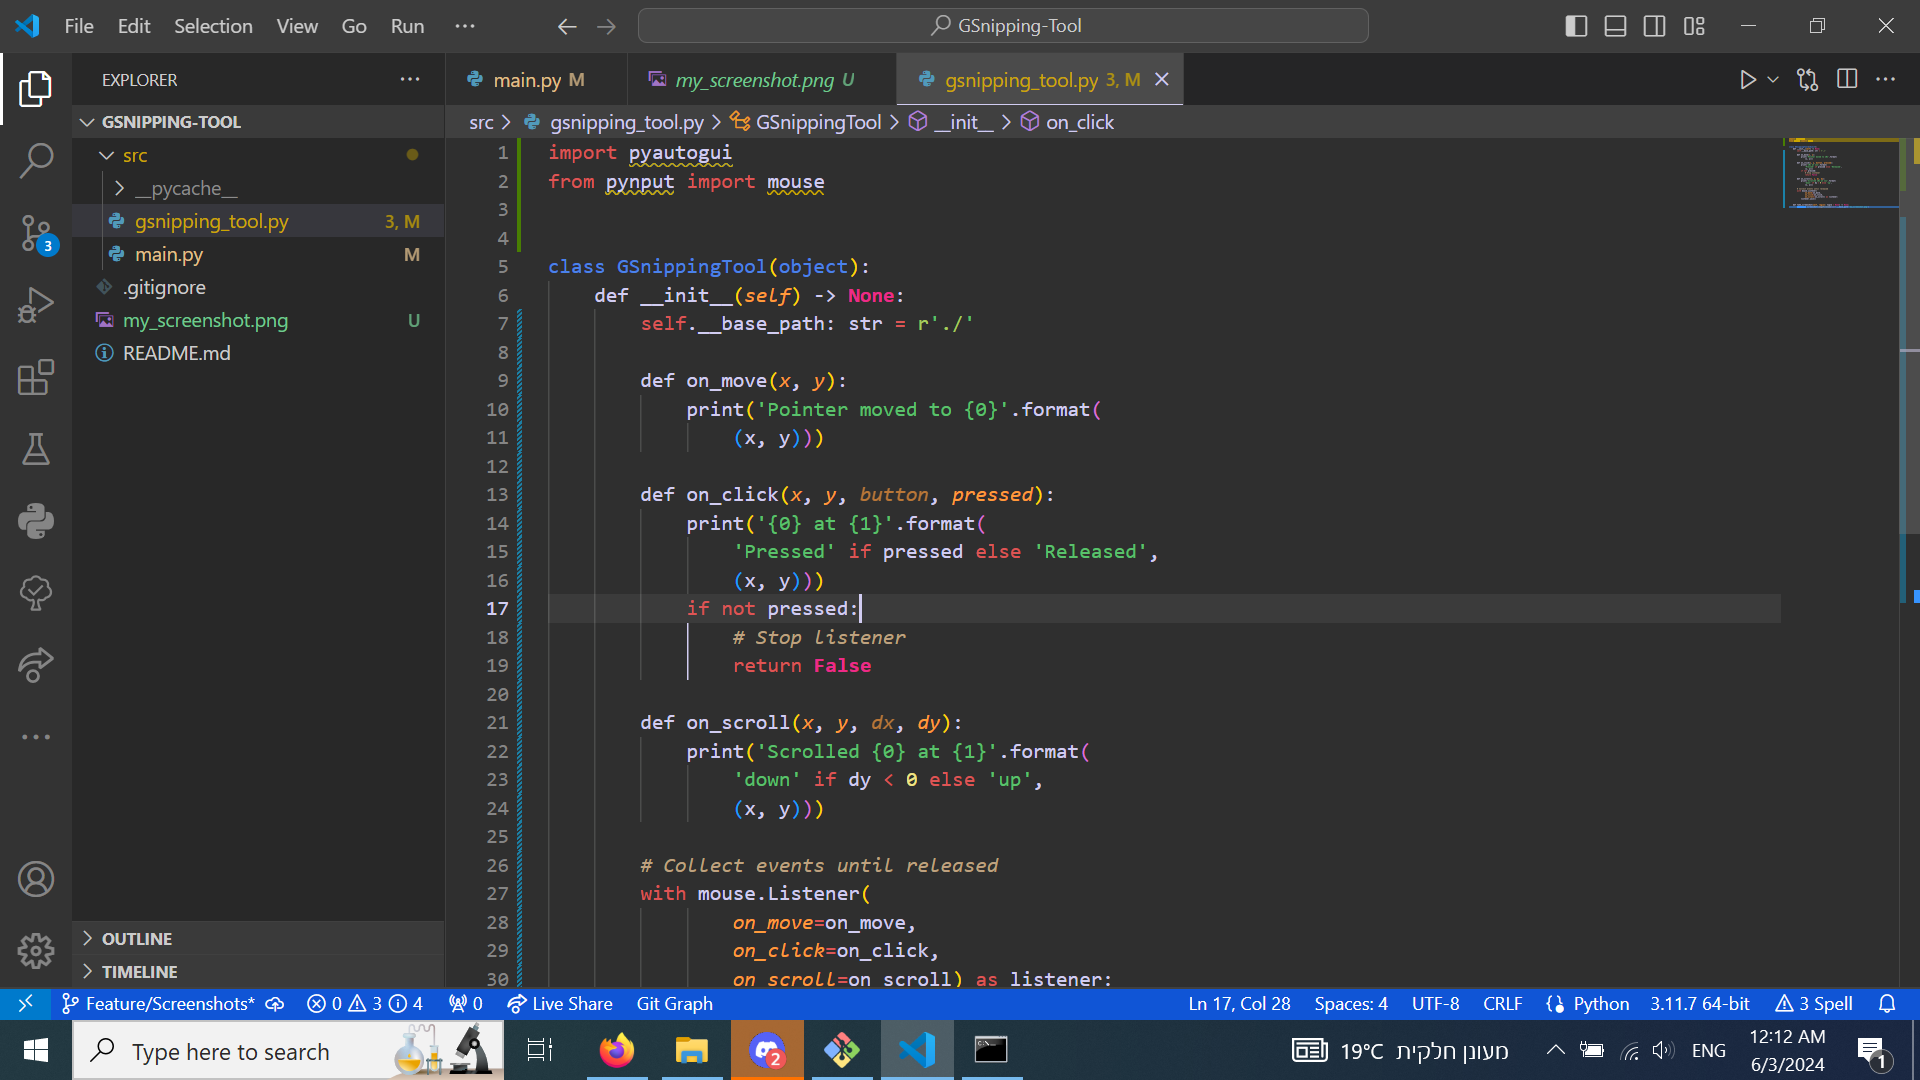
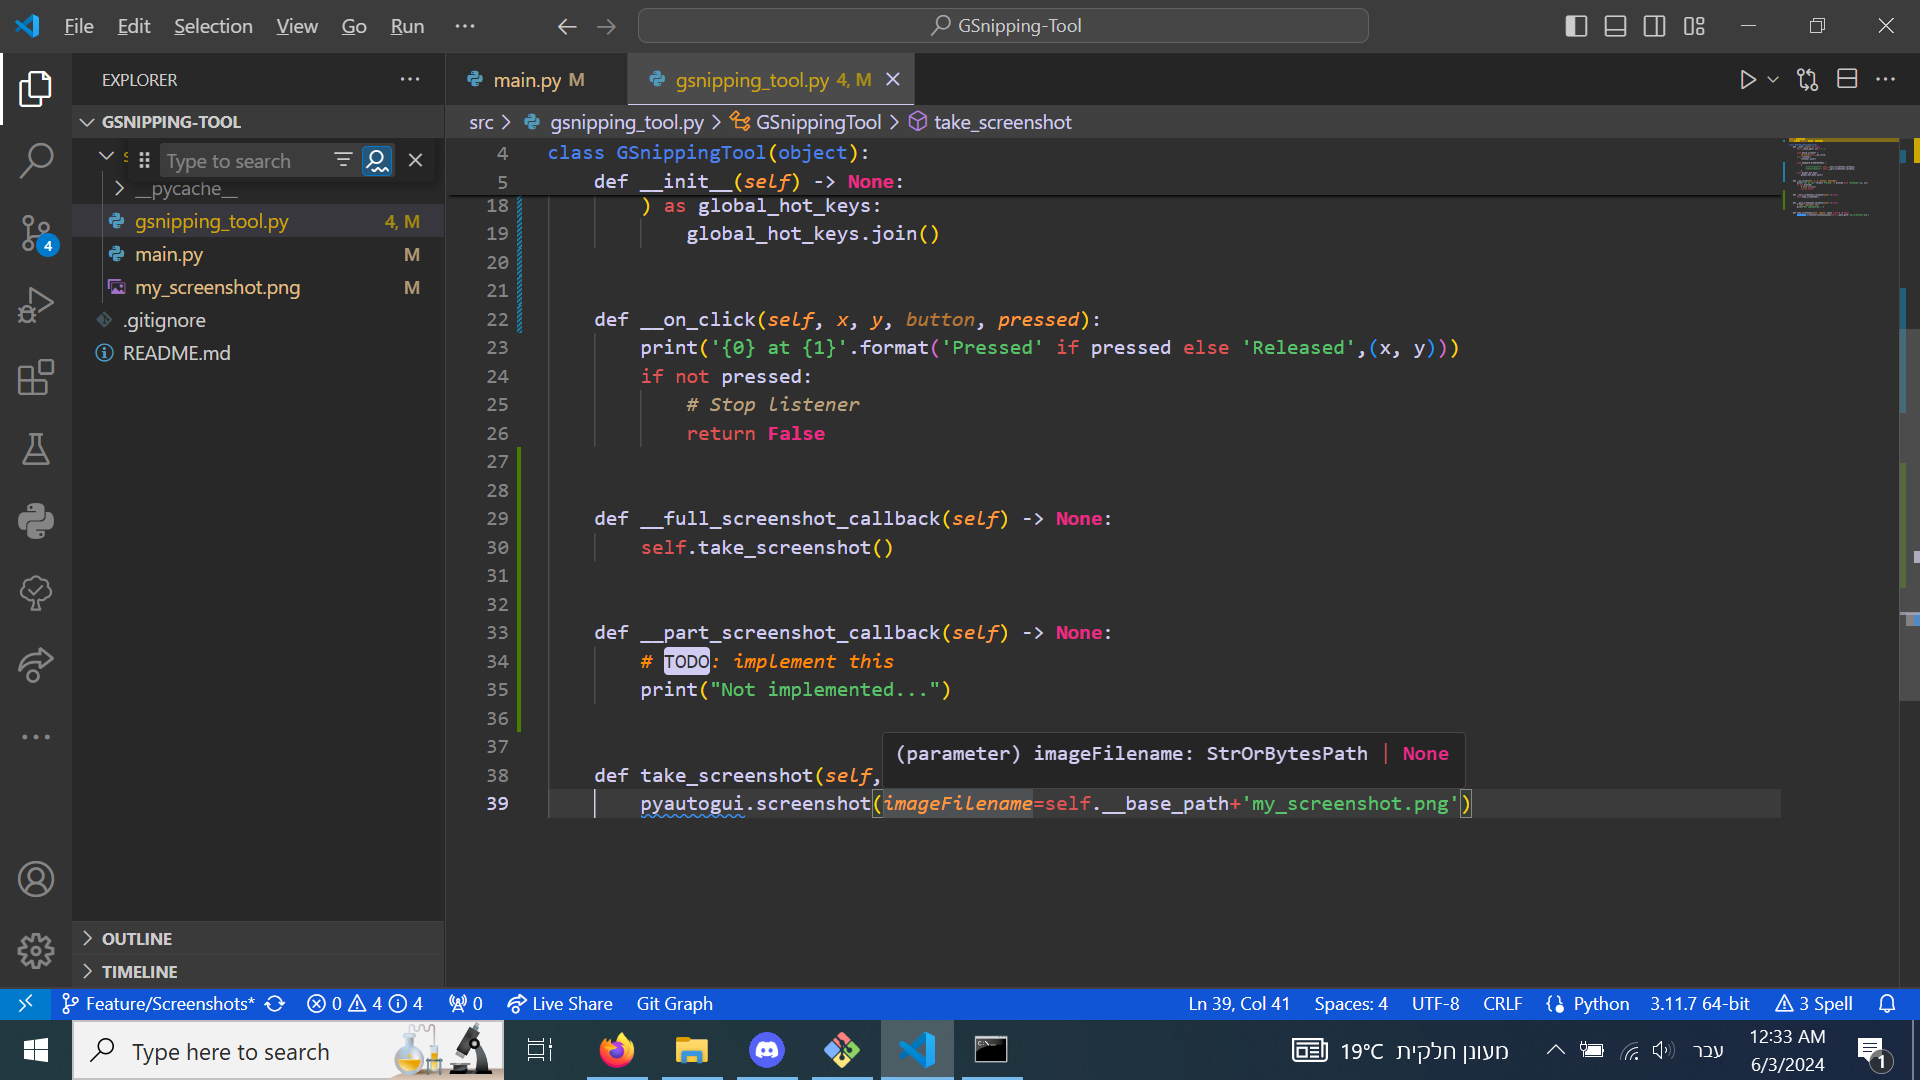
Add hotkeys listener

diff --git a/src/gsnipping_tool.py b/src/gsnipping_tool.py
@@ -1,5 +1,5 @@
 import pyautogui
-from pynput import mouse
+from pynput import mouse, keyboard
 
 class GSnippingTool(object):
     def __init__(self) -> None:
@@ -10,11 +10,30 @@ class GSnippingTool(object):
         ) as listener:
             listener.join()
         
-    def __on_click(self,x, y, button, pressed):
+        with keyboard.GlobalHotKeys (
+            {
+                '<ctrl>+<alt>+f': self.__full_screenshot_callback,
+                '<ctrl>+<alt>+i': self.__part_screenshot_callback,
+            }
+        ) as global_hot_keys:
+            global_hot_keys.join()
+        
+        
+    def __on_click(self, x, y, button, pressed):
         print('{0} at {1}'.format('Pressed' if pressed else 'Released',(x, y)))
         if not pressed:
             # Stop listener
             return False
+        
+    
+    def __full_screenshot_callback(self) -> None:
+        self.take_screenshot()
+    
+    
+    def __part_screenshot_callback(self) -> None:
+        # TODO: implement this
+        print("Not implemented...")
+    
     
     def take_screenshot(self, region: tuple = None) -> None:
         pyautogui.screenshot(imageFilename=self.__base_path+'my_screenshot.png')

diff --git a/src/main.py b/src/main.py
@@ -2,8 +2,8 @@ from gsnipping_tool import GSnippingTool
 
 def main() -> None:
     gst = GSnippingTool()
-    gst.take_screenshot()
-    gst.take_screenshot()
+    #gst.take_screenshot()
+    #gst.take_screenshot()
 
 if __name__ == "__main__":
     main()
